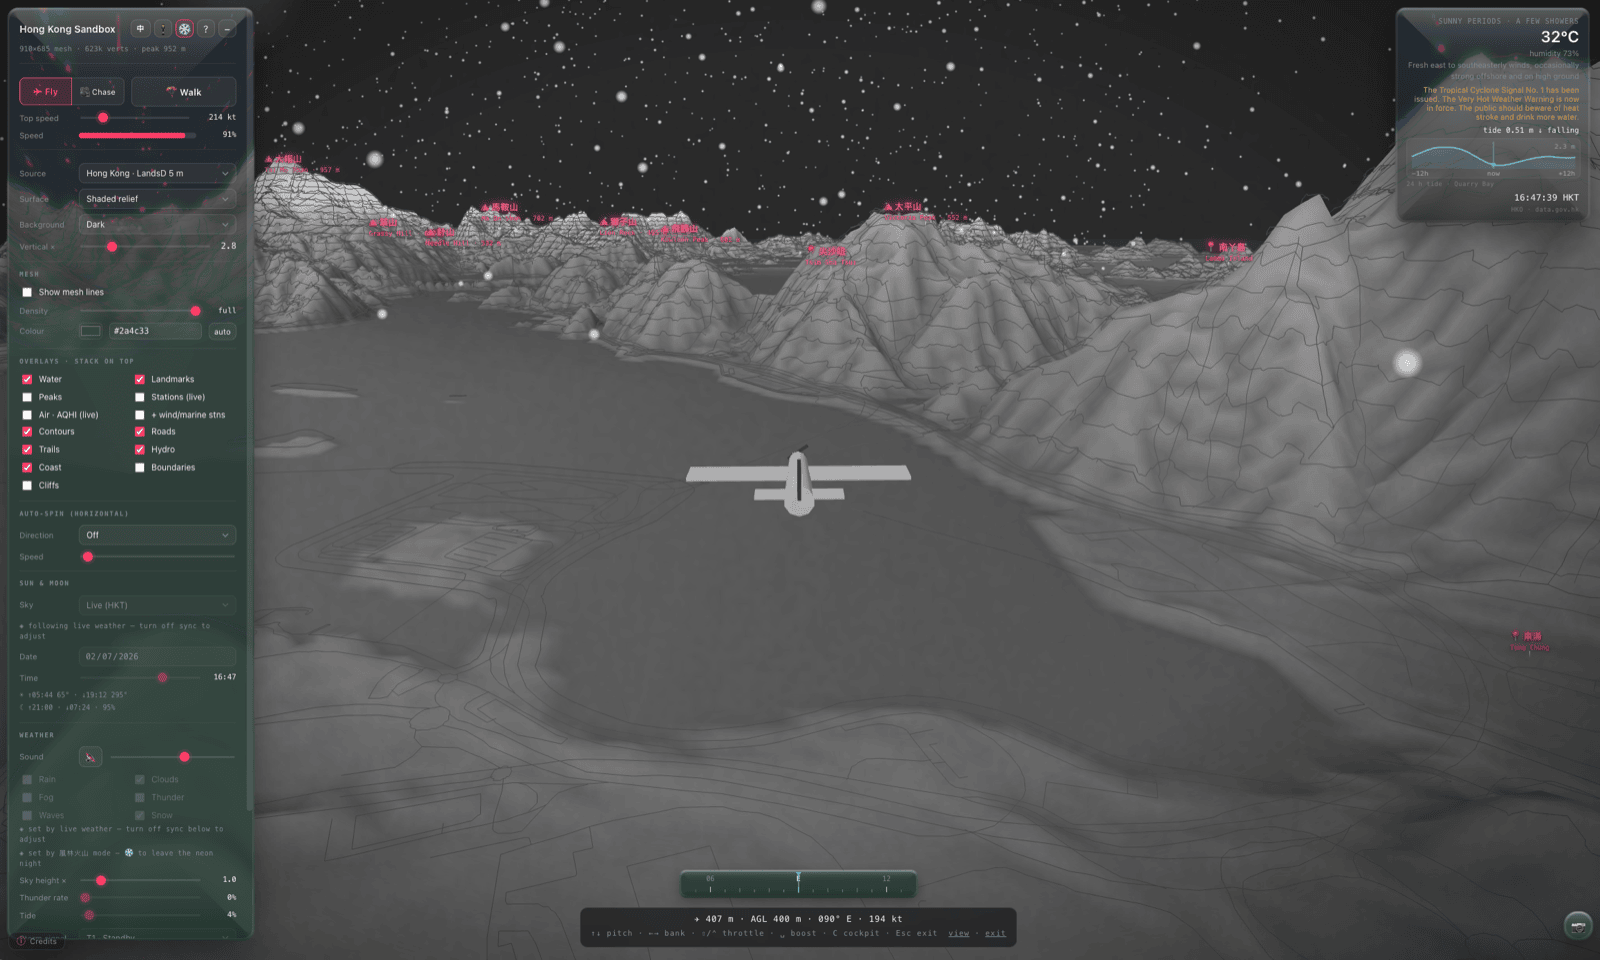
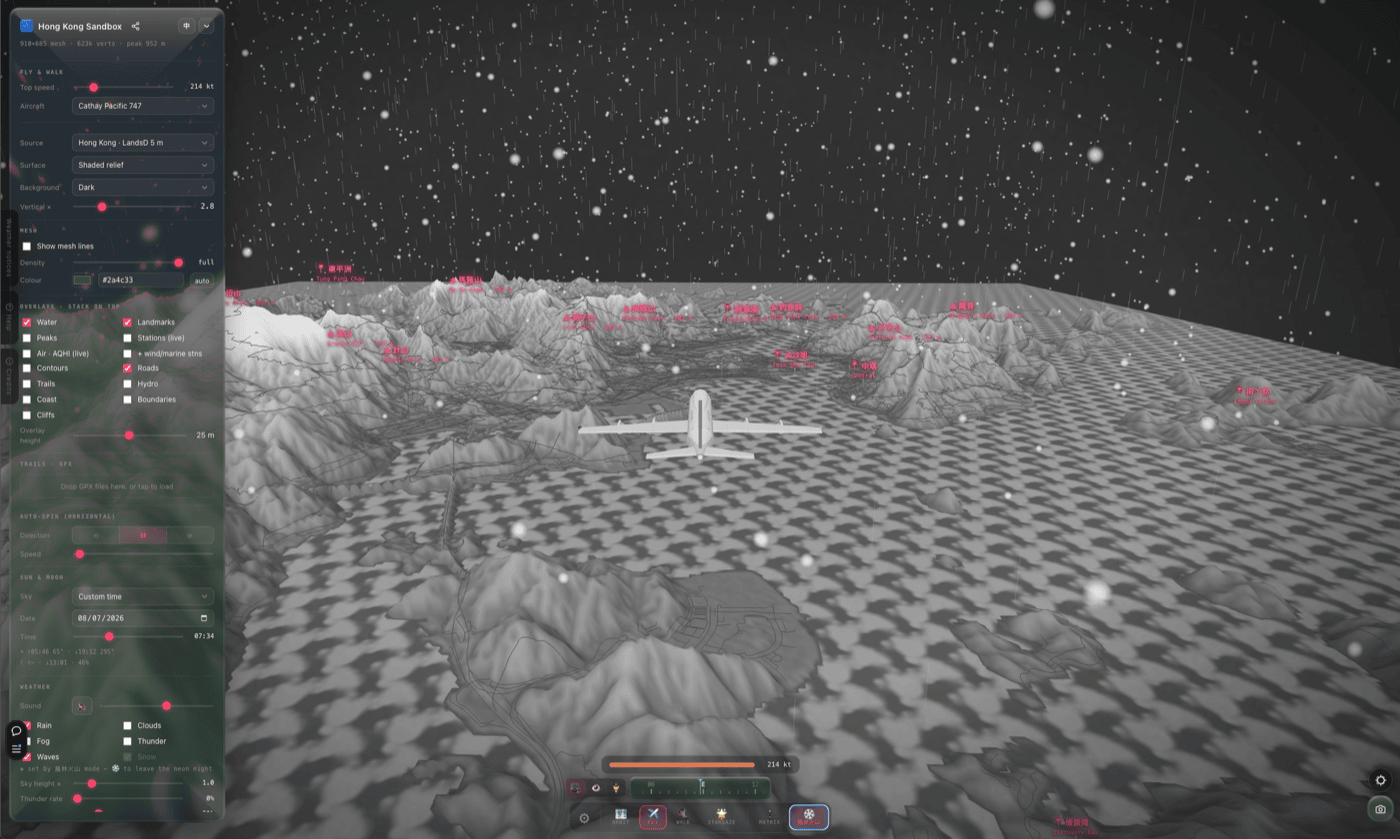
docs(readme): refresh gallery — Stargaze, plane skins, GPX & night sky (HKS-105) (#182)
docs(readme): refresh gallery with Stargaze, plane skins, GPX & night sky (HKS-105)

The README text was refreshed in #173 but the screenshots still showed the
old feature set. Capture + wire in the new headline features:

- New cards: Stargaze (constellations), Cathay plane skins (A350), GPX
  import + playback, and the night-sky star catalogue over Hong Kong.
- Refreshed the Matrix and 風林火山 (Neon Night) cards with current captures.
- Both EN and 繁中 galleries updated with matching bilingual captions;
  images downscaled to ~1400px and compressed (52–434 KB each).

Claude-Session: https://claude.ai/code/session_01Yc1qvwX4oQwba7Sq2CGU24

diff --git a/README.md b/README.md
@@ -31,6 +31,14 @@ file (via any static server) and deploys as plain files.
 </tr>
 <tr>
 <td width="33%"><img src="assets/screenshots/flight-mode.png" width="380"/><br/><sub>Flight mode — fly a plane over real terrain</sub></td>
+<td width="33%"><img src="assets/screenshots/plane-skins.png" width="380"/><br/><sub>Plane skins — fly a Cathay Pacific A350</sub></td>
+<td width="33%"><img src="assets/screenshots/gpx-trails.png" width="380"/><br/><sub>Import your GPX — draped trails with Start/End pins &amp; playback</sub></td>
+</tr>
+<tr>
+<td width="33%"><img src="assets/screenshots/stargaze-mode.png" width="380"/><br/><sub>Stargaze — trace the constellations (Cygnus)</sub></td>
+<td width="33%"><img src="assets/screenshots/night-stars.png" width="380"/><br/><sub>Night sky — the star catalogue over Hong Kong</sub></td>
+</tr>
+<tr>
 <td width="33%"><img src="assets/screenshots/matrix-mode.png" width="380"/><br/><sub>🕴 Matrix mode — the code behind the sandbox</sub></td>
 <td width="33%"><img src="assets/screenshots/neon-night-mode.png" width="380"/><br/><sub>❄️ 風林火山 — snowbound neon-noir</sub></td>
 </tr>
@@ -197,6 +205,14 @@ Infrastructure by [stealth.co](https://stealth-company.co).
 </tr>
 <tr>
 <td width="33%"><img src="assets/screenshots/flight-mode.png" width="380"/><br/><sub>飛行模式 —— 駕駛飛機飛越真實地形</sub></td>
+<td width="33%"><img src="assets/screenshots/plane-skins.png" width="380"/><br/><sub>機身塗裝 —— 駕駛國泰航空 A350</sub></td>
+<td width="33%"><img src="assets/screenshots/gpx-trails.png" width="380"/><br/><sub>匯入 GPX —— 貼地路徑、起訖標記與回放</sub></td>
+</tr>
+<tr>
+<td width="33%"><img src="assets/screenshots/stargaze-mode.png" width="380"/><br/><sub>觀星模式 —— 描繪星座（天鵝座）</sub></td>
+<td width="33%"><img src="assets/screenshots/night-stars.png" width="380"/><br/><sub>夜空 —— 香港上空的星空目錄</sub></td>
+</tr>
+<tr>
 <td width="33%"><img src="assets/screenshots/matrix-mode.png" width="380"/><br/><sub>🕴 Matrix 模式 —— 沙盤背後的程式碼</sub></td>
 <td width="33%"><img src="assets/screenshots/neon-night-mode.png" width="380"/><br/><sub>❄️ 風林火山 —— 雪夜霓虹</sub></td>
 </tr>